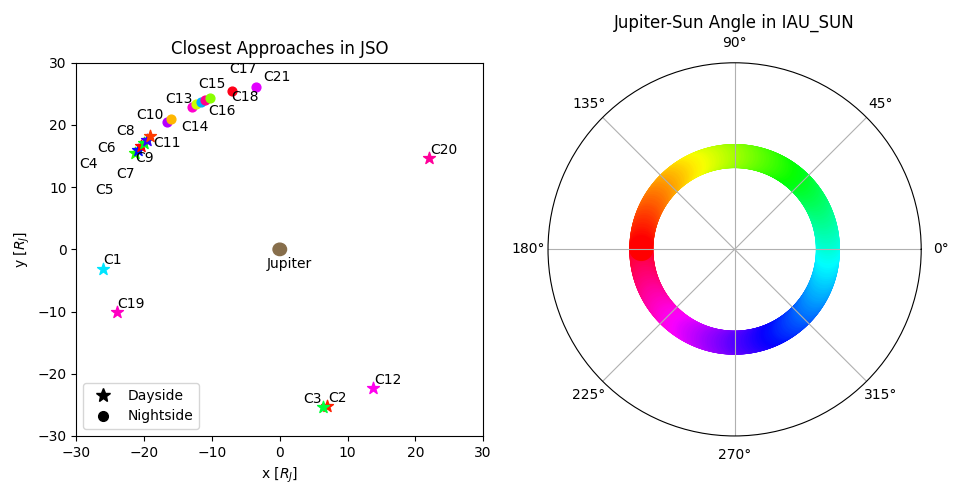
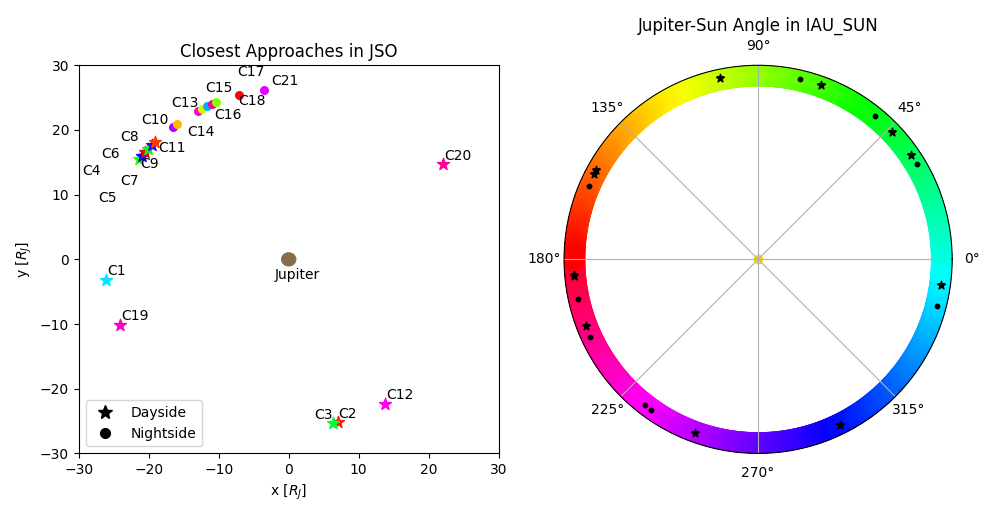
added labels to colour wheel

diff --git a/colourwheel_plot.py b/colourwheel_plot.py
@@ -78,7 +78,7 @@ for orbit, vector in callisto_wrt_jupiter_JSO_CA.items():
     if sun_juice_angle[i] > 90:
         s = ax1.scatter(vector[1] / R_J, vector[2] / R_J, c=azimuthal[i], vmin=min(azimuthal), vmax=max(azimuthal), s=80, cmap=colormap, marker='*')
     else:
-        s = ax1.scatter(vector[1] / R_J, vector[2] / R_J, c=azimuthal[i], vmin=min(azimuthal), vmax=max(azimuthal), s=40, cmap=colormap)
+        s = ax1.scatter(vector[1] / R_J, vector[2] / R_J, c=azimuthal[i], vmin=min(azimuthal), vmax=max(azimuthal), s=30, cmap=colormap)
 
     i += 1
     texts.append(ax1.text(vector[1] / R_J, vector[2] / R_J, 'C%s' % i)) # save orbit labels in list
@@ -95,6 +95,17 @@ ax1.set_title('Closest Approaches in JSO')
 
 ax2 = plt.subplot(122, projection = 'polar')
 ax2.scatter(xval, yval, c=xval, s=300, cmap=colormap, norm=norm, linewidths=0)
+ax2.scatter(0,0, color='gold')
+
+labels =[]
+for i in range(len(azimuthal)):
+    if sun_juice_angle[i] > 90:
+        ax2.scatter(azimuthal[i], 1, color='black', marker='*')
+    else:
+        ax2.scatter(azimuthal[i], 1, color='black', s=10)
+    labels.append(ax2.text(azimuthal[i], 1, 'C%s' % (i+1)))
+
+adjust_text(labels)
 ax2.set_yticks([])
 ax2.set_title('Jupiter-Sun Angle in IAU_SUN')
 
